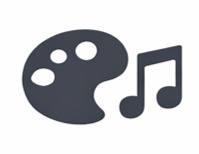
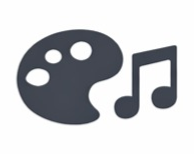
more image resizing

diff --git a/pc_games.html b/pc_games.html
@@ -21,37 +21,37 @@
         <p>Enjoy the best PC games to play at home.</p>
         <section>
             <div>
-                <img src="images/minecraft-java.png" alt="Minecraft Java">
+                <img src="images/minecraft-java1.png" alt="Minecraft Java">
                 <h4>Minecraft (Java Edition)</h4>
                 <p>A creative sandbox game where you can build, explore, and survive in infinite worlds. Perfect for players who enjoy freedom, creativity, and endless possibilities.</p>
                 <p>Genre tags: Sandbox, Survival, Creative, Adventure</p>
             </div>
             <div>
-                <img src="images/valorant.png" alt="Valorant">
+                <img src="images/valorant1.png" alt="Valorant">
                 <h4>Valorant</h4>
                 <p>A tactical 5v5 shooter that mixes precise gunplay with unique character abilities. Great for players who enjoy teamwork, strategy, and competitive matches.</p>
                 <p>Genre tags: Tactical Shooter, FPS, Competitive, Multiplayer</p>
             </div>
             <div>
-                <img src="images/league-of-legends.png" alt="League of Legends">
+                <img src="images/league-of-legends1.png" alt="League of Legends">
                 <h4>League of Legends</h4>
                 <p>A fast-paced MOBA where teams battle to destroy the enemy base. Ideal for players who like strategy, teamwork, and mastering different champions.</p>
                 <p>Genre tags: MOBA, Strategy, Competitive, Multiplayer</p>
             </div>
             <div>
-                <img src="images/hollow-knight.png" alt="Hollow Knight">
+                <img src="images/hollow-knight1.png" alt="Hollow Knight">
                 <h4>Hollow Knight</h4>
                 <p>A beautifully crafted metroidvania with challenging combat and atmospheric exploration. Great for players who love adventure, mystery, and skill-based gameplay.</p>
                 <p>Genre tags: Metroidvania, Action-Adventure, Platformer, Indie</p>
             </div>
             <div>
-                <img src="images/fortnite-pc.png" alt="Fortnite">
+                <img src="images/fortnite-pc1.png" alt="Fortnite">
                 <h4>Fortnite (PC Version)</h4>
                 <p>A colorful battle royale with building mechanics and constant updates. Ideal for players who enjoy fast action, creativity, and playing with friends.</p>
                 <p>Genre tags: Battle Royale, Shooter, Multiplayer, Building</p>
             </div>
             <div>
-                <img src="images/elden-ring.png" alt="Elden Ring">
+                <img src="images/elden-ring1.png" alt="Elden Ring">
                 <h4>Elden Ring</h4>
                 <p>An expansive open-world action RPG that combines deep lore, challenging combat, and breathtaking landscapes. Perfect for players who enjoy exploration, mastery, and epic adventures filled with mystery and discovery.</p>
                 <p>Genre tags: Action RPG, Open World, Souls-like, Fantasy</p>

diff --git a/mobile_games.html b/mobile_games.html
@@ -21,7 +21,7 @@
         <p>Enjoy the best mobile games to play on the go.</p>
         <section>
             <div>
-                <img src="images/clash-royal.png" alt="Clash Royale">
+                <img src="images/clash-royal1.png" alt="Clash Royale">
                 <h4>Clash Royale</h4>
                 <p>
                     A fast-paced strategy game where you collect cards, 
@@ -32,7 +32,7 @@
                 <p>Genre tags: Strategy, Real-Time, Card Game, Tower Defense</p>
             </div>
             <div>
-                <img src="images/brawl-star.png" alt="Brawl Stars">
+                <img src="images/brawl-stars1.png" alt="Brawl Stars">
                 <h4>Brawl Stars</h4>
                 <p>
                     A colorful, action-packed multiplayer game with 
@@ -43,7 +43,7 @@
                 <p>Genre tags: Action, Multiplayer, Hero Shooter, Brawler</p>
             </div>
             <div>
-                <img src="images/call-of-duty-mobile.png" alt="Call of Duty">
+                <img src="images/call-of-duty-mobile1.png" alt="Call of Duty">
                 <h4>Call of Duty Mobile</h4>
                 <p>
                     A high-quality FPS experience on mobile with 
@@ -54,7 +54,7 @@
                 <p>Genre tags: FPS, Shooter, Multiplayer, Battle Royale</p>
             </div>
             <div>
-                <img src="images/genshin-impact.png" alt="Genshin Impact">
+                <img src="images/genshin-impact1.png" alt="Genshin Impact">
                 <h4>Genshin Impact</h4>
                 <p>
                     An open-world action RPG with beautiful visuals, 
@@ -65,7 +65,7 @@
                 <p>Genre tags: Action RPG, Open World, Anime, Adventure</p>
             </div>
             <div>
-                <img src="images/among-us.png" alt="Among Us">
+                <img src="images/among-us1.png" alt="Among Us">
                 <h4>Among Us</h4>
                 <p>
                     A social deduction game where players work together 
@@ -76,7 +76,7 @@
                 <p>Genre tags: Social Deduction, Party, Multiplayer</p>
             </div>
             <div>
-                <img src="images/pubg-mobile.png" alt="PUBG">
+                <img src="images/pubg-mobile1.png" alt="PUBG">
                 <h4>PUBG Mobile</h4>
                 <p>
                     A thrilling battle-royale game where 100 players 
